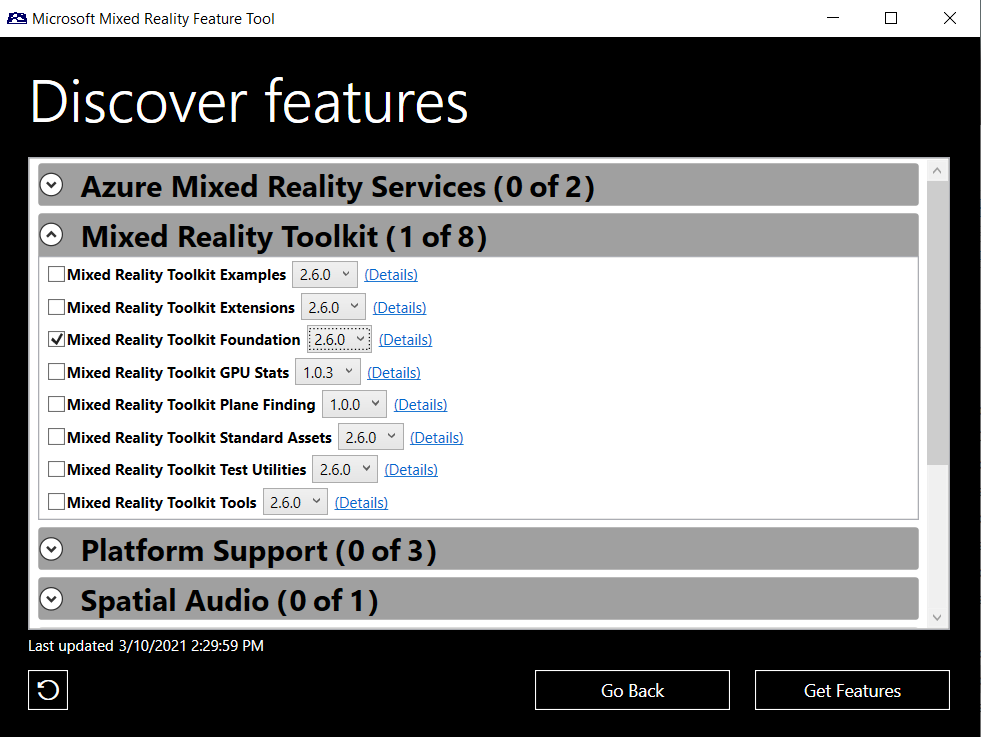
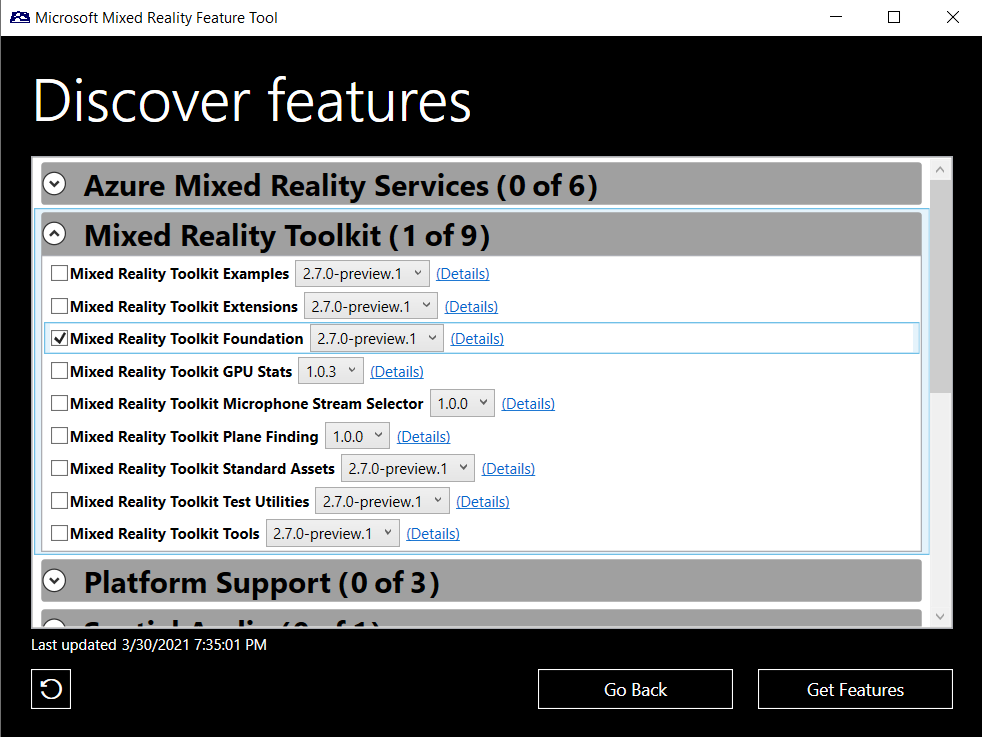
improved steps for openXR
Added updated steps and screenshots

diff --git a/mixed-reality-docs/mr-dev-docs/develop/unity/tutorials/includes/importing-mrtk.md b/mixed-reality-docs/mr-dev-docs/develop/unity/tutorials/includes/importing-mrtk.md
@@ -1,14 +1,17 @@
 # [Unity 2019/2020 + Windows XR Plugin](#tab/winxr)
 
+Once **MixedRealityFeatureTool** is opened click on start to get started with Mixed Reality Feature Tool.
+
+![MixedRealityFeatureTool window for Windows XR plugin](images/mr-learning-base/base-02-section4-step1-2.png)
+
 Features are grouped by category to make things easier to find, click on **Mixed Reality Toolkit** dropdown to find packages relating to the Mixed Reality Toolkit.
 
 ![MixedRealityFeatureTool window](../images/mr-learning-base/base-02-section4-step1-3.png)
 
-check the **Mixed Reality Toolkit Foundation**, and click on the dropdown next to it to select the required MRTK version, for this tutorial series please select **2.5.3**. then click on **Get features** button to download the selected packages.
+check the **Mixed Reality Toolkit Foundation**, and click on the dropdown next to it to select the latest MRTK version, then click on **Get features** button to download the selected packages.
 
 ![Selecting Mixed reality foundation](../images/mr-learning-base/base-02-section4-step1-4.png)
 
-Selected package **Mixed Reality Toolkit Foundation 2.5.3** is presented, along with its dependence package **Mixed Reality Toolkit Standard Assets 2.5.3** in the **Import Features** window.
 
 You also need to set the location of the target unity project to provide the **Project path**, click on the **Three dots** next to the Project path and browse to your project folder in the explorer for example _D:\MixedRealityLearning\MRTK Tutorials_.
 
@@ -24,19 +27,31 @@ Click on **Approve** Button to add the **Mixed Reality Toolkit** into the projec
 ![Approve Mixed reality foundation](../images/mr-learning-base/base-02-section4-step1-6.png)
 
 # [Unity 2020 + OpenXR](#tab/openxr)
+In the bottom left hand of the window, click on the gear symbol to open the settings menu.
+
+![MixedRealityFeatureTool](images/mr-learning-base/base-02-section4-step1-2.png)
+
+Under **Feature Seetings**, check the box for **Include preview releases** and then click the **OK* button.
+
+> [!NOTE]
+>If you do not see an option to include preview releases, make sure you're using the latest version of the MR Feature Tool.
+
+![MixedRealityFeatureTool Settings window](../images/mrft-settings.png)
+
+Now that your settings are configured, click on **Start** to get started with Mixed Reality Feature Tool.
+
+![MixedRealityFeatureTool window start screen](images/mr-learning-base/base-02-section4-step1-2.png)
+
 Features are grouped by category to make things easier to find, click on **Mixed Reality Toolkit** dropdown to find packages relating to the Mixed Reality Toolkit.
 
-![MixedRealityFeatureTool window](../images/mrft-mrtk.png)
+![MixedRealityFeatureTool window for Unity 2020 and OpenXR](../images/mrft-mrtk.png)
 
-Check the **Mixed Reality Toolkit Foundation**, and click on the dropdown next to it to select the required MRTK version, for this tutorial series please select the **2.7 preview package**.
+Check the **Mixed Reality Toolkit Foundation**, and click on the dropdown next to it to select the required MRTK version, for this tutorial series please select the latest **2.7 preview package**.
 
 Under the **Platform Support** dropdown, select **Mixed Reality OpenXR Plugin**. Make sure the latest version is selected in the dropdown.
 ![Selecting Mixed Reality OpenXR Plugin](../images/mrft-openxr.png)
 
 Click on the **Get features** button to download the selected packages.
-
-
-
 
 You also need to set the location of the target unity project to provide the **Project path**, click on the **Three dots** next to the Project path and browse to your project folder in the explorer for example _D:\MixedRealityLearning\MRTK Tutorials_.
 
@@ -45,23 +60,24 @@ You also need to set the location of the target unity project to provide the **P
 
 Next click on the **Validate** button to validate the selected package, you will get a popup with message **No validation issues were detected** click on **OK** to close the popup and click on **Import** button.
 
-![Validating Mixed reality foundation](../images/mr-learning-base/base-02-section4-step1-5.png)
+![Validating Mixed reality foundation](../images/mrft-openxr-validate2.png)
 
 Click on the **Approve** button to add the **Mixed Reality Toolkit** into the project.
 
-![Approve Mixed reality foundation](../images/mr-learning-base/base-02-section4-step1-6.png)
+![Approve Mixed reality foundation](../images/mrft-openxr-import.png)
 
 # [Legacy WSA](#tab/wsa)
+Once **MixedRealityFeatureTool** is opened click on start to get started with Mixed Reality Feature Tool.
+
+![MixedRealityFeatureTool for legacy WSA](images/mr-learning-base/base-02-section4-step1-2.png)
 
 Features are grouped by category to make things easier to find, click on **Mixed Reality Toolkit** dropdown to find packages relating to the Mixed Reality Toolkit.
 
 ![MixedRealityFeatureTool window](../images/mr-learning-base/base-02-section4-step1-3.png)
 
-check the **Mixed Reality Toolkit Foundation**, and click on the dropdown next to it to select the required MRTK version, for this tutorial series please select **2.5.3**. then click on **Get features** button to download the selected packages.
+check the **Mixed Reality Toolkit Foundation**, and click on the dropdown next to it to select the latest MRTK version, then click on **Get features** button to download the selected packages.
 
 ![Selecting Mixed reality foundation](../images/mr-learning-base/base-02-section4-step1-4.png)
-
-Selected package **Mixed Reality Toolkit Foundation 2.5.3** is presented, along with its dependence package **Mixed Reality Toolkit Standard Assets 2.5.3** in the **Import Features** window.
 
 You also need to set the location of the target unity project to provide the **Project path**, click on the **Three dots** next to the Project path and browse to your project folder in the explorer for example _D:\MixedRealityLearning\MRTK Tutorials_.
 

diff --git a/mixed-reality-docs/mr-dev-docs/develop/unity/tutorials/mr-learning-base-02.md b/mixed-reality-docs/mr-dev-docs/develop/unity/tutorials/mr-learning-base-02.md
@@ -83,9 +83,6 @@ Open the executable file **MixedRealityFeatureTool** from the downloaded folder 
 
 ![Opening MixedRealityFeatureTool](images/mr-learning-base/base-02-section4-step1-1.png)
 
-Once **MixedRealityFeatureTool** is opened click on start to get started with Mixed Reality Feature Tool.
-
-![MixedRealityFeatureTool](images/mr-learning-base/base-02-section4-step1-2.png)
 
 [!INCLUDE[](includes/importing-mrtk.md)]
 

diff --git a/mixed-reality-docs/mr-dev-docs/develop/unity/tutorials/includes/switching-build-platform.md b/mixed-reality-docs/mr-dev-docs/develop/unity/tutorials/includes/switching-build-platform.md
@@ -34,8 +34,6 @@ In the Build Settings window, select **Universal Windows Platform** and:
 
 ![Unity Build Settings with Universal Windows Platform settings set](../images/mr-learning-base/base-02-section2-step1-2-openxr.png)
 
-Wait for Unity to finish switching the platform.
-
 When Unity has finished switching the platform, click the red **x** icon to close the Build Settings window.
 
 # [Legacy WSA](#tab/wsa)
